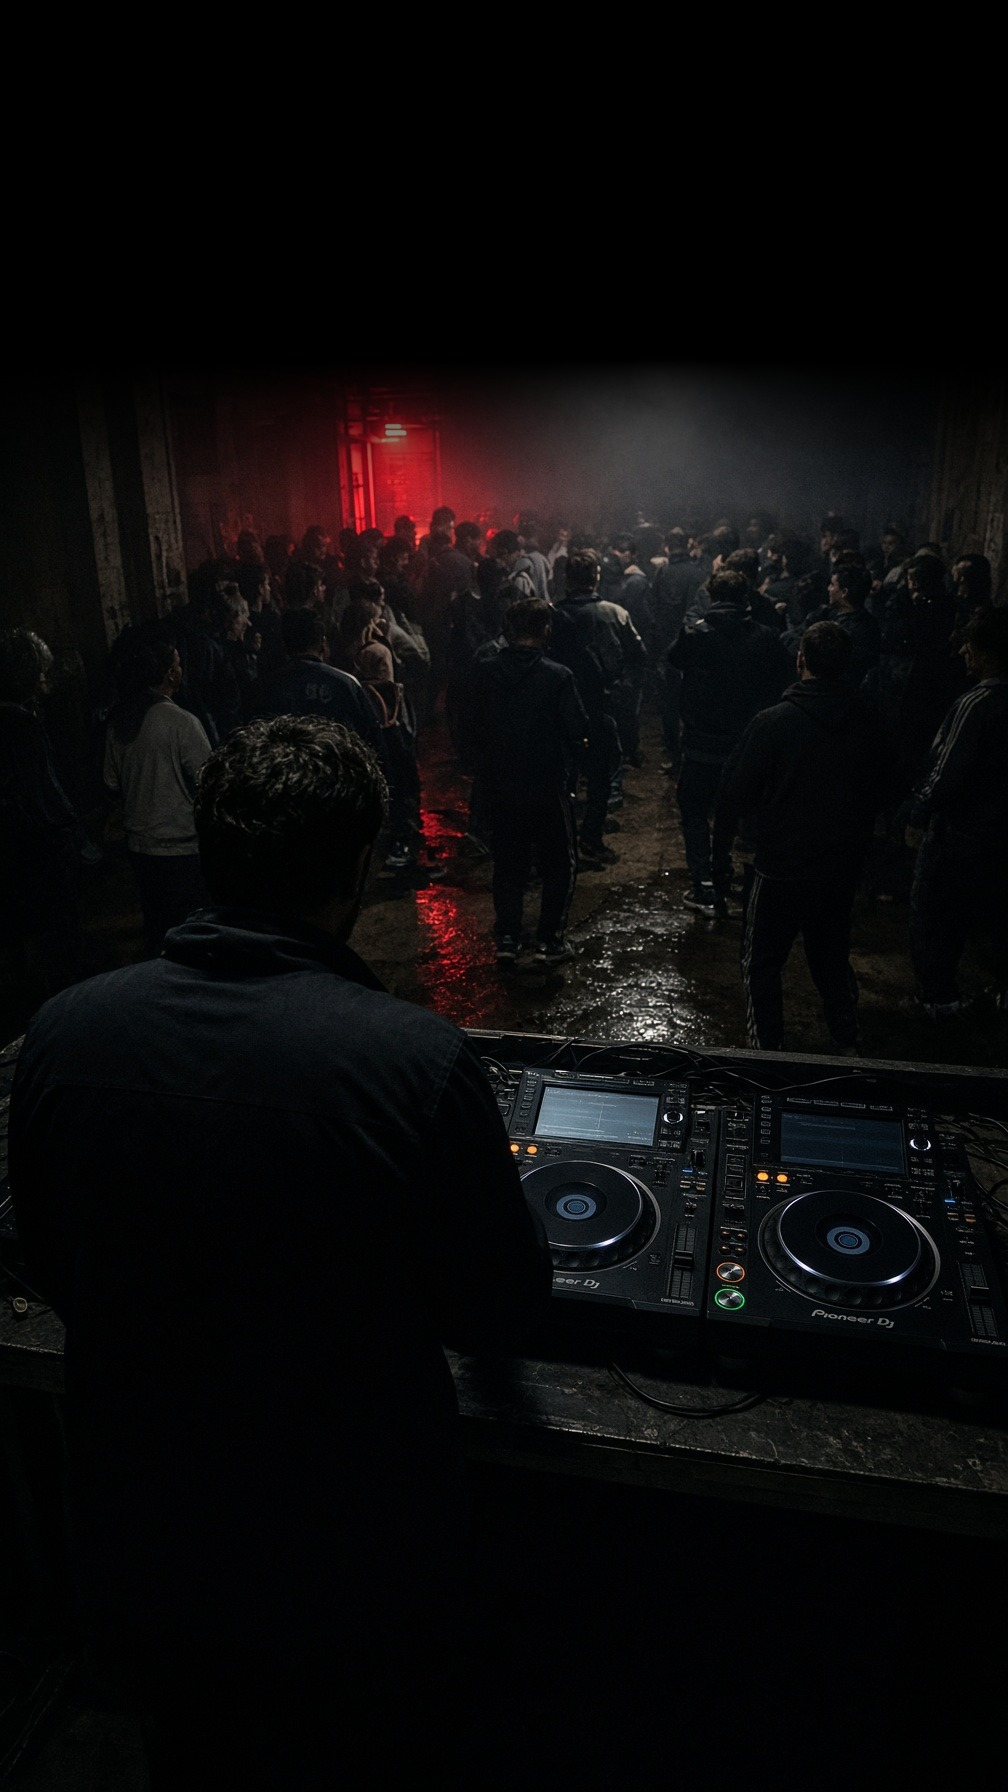
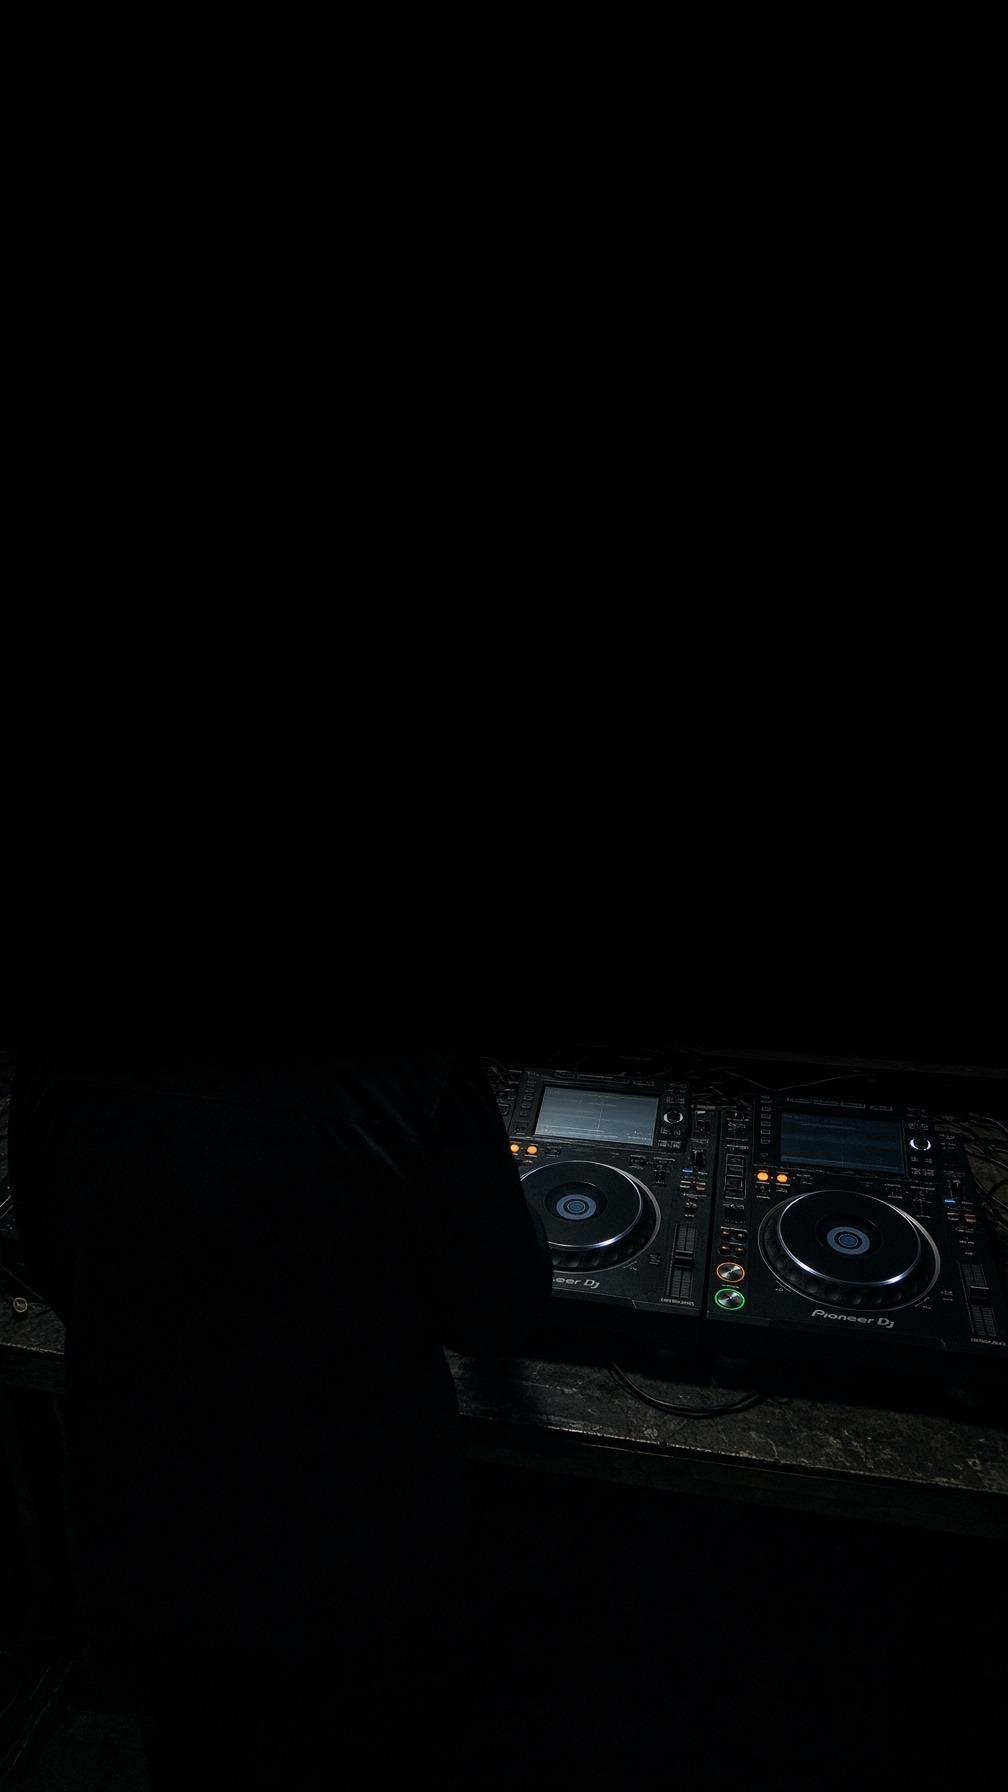
Solid black over the CHILL smear above the stamp.

diff --git a/src/routes/index.tsx b/src/routes/index.tsx
@@ -69,7 +69,7 @@ function Home() {
           alt=""
           className="absolute inset-0 h-full w-full object-cover"
         />
-        <div className="absolute inset-0 bg-gradient-to-t from-bg via-bg/55 to-bg/20" />
+        <div className="absolute inset-0 bg-gradient-to-t from-bg via-bg/70 to-black" />
         <div className="relative flex min-h-[28rem] flex-col items-center justify-end px-5 pb-8 pt-10 text-center md:min-h-[36rem] md:pb-12 lg:min-h-[42rem]">
           <img
             src="/art/brand/logo.png"
